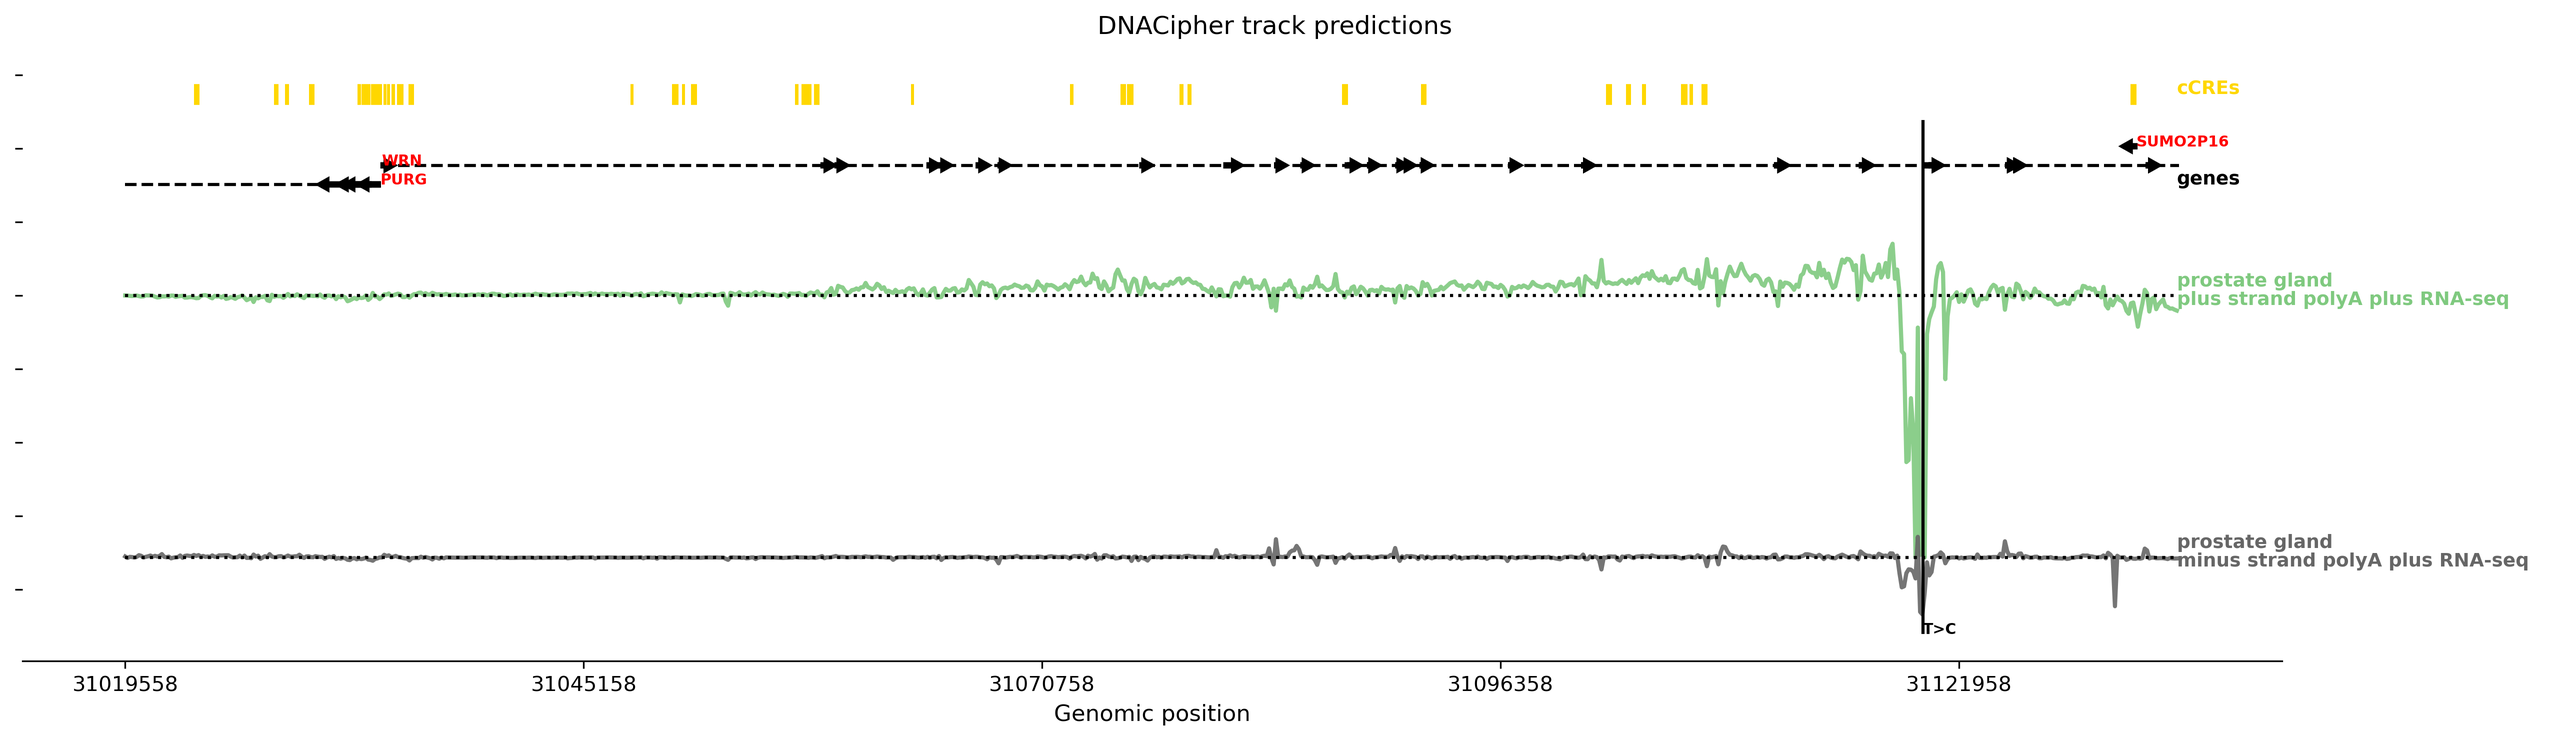
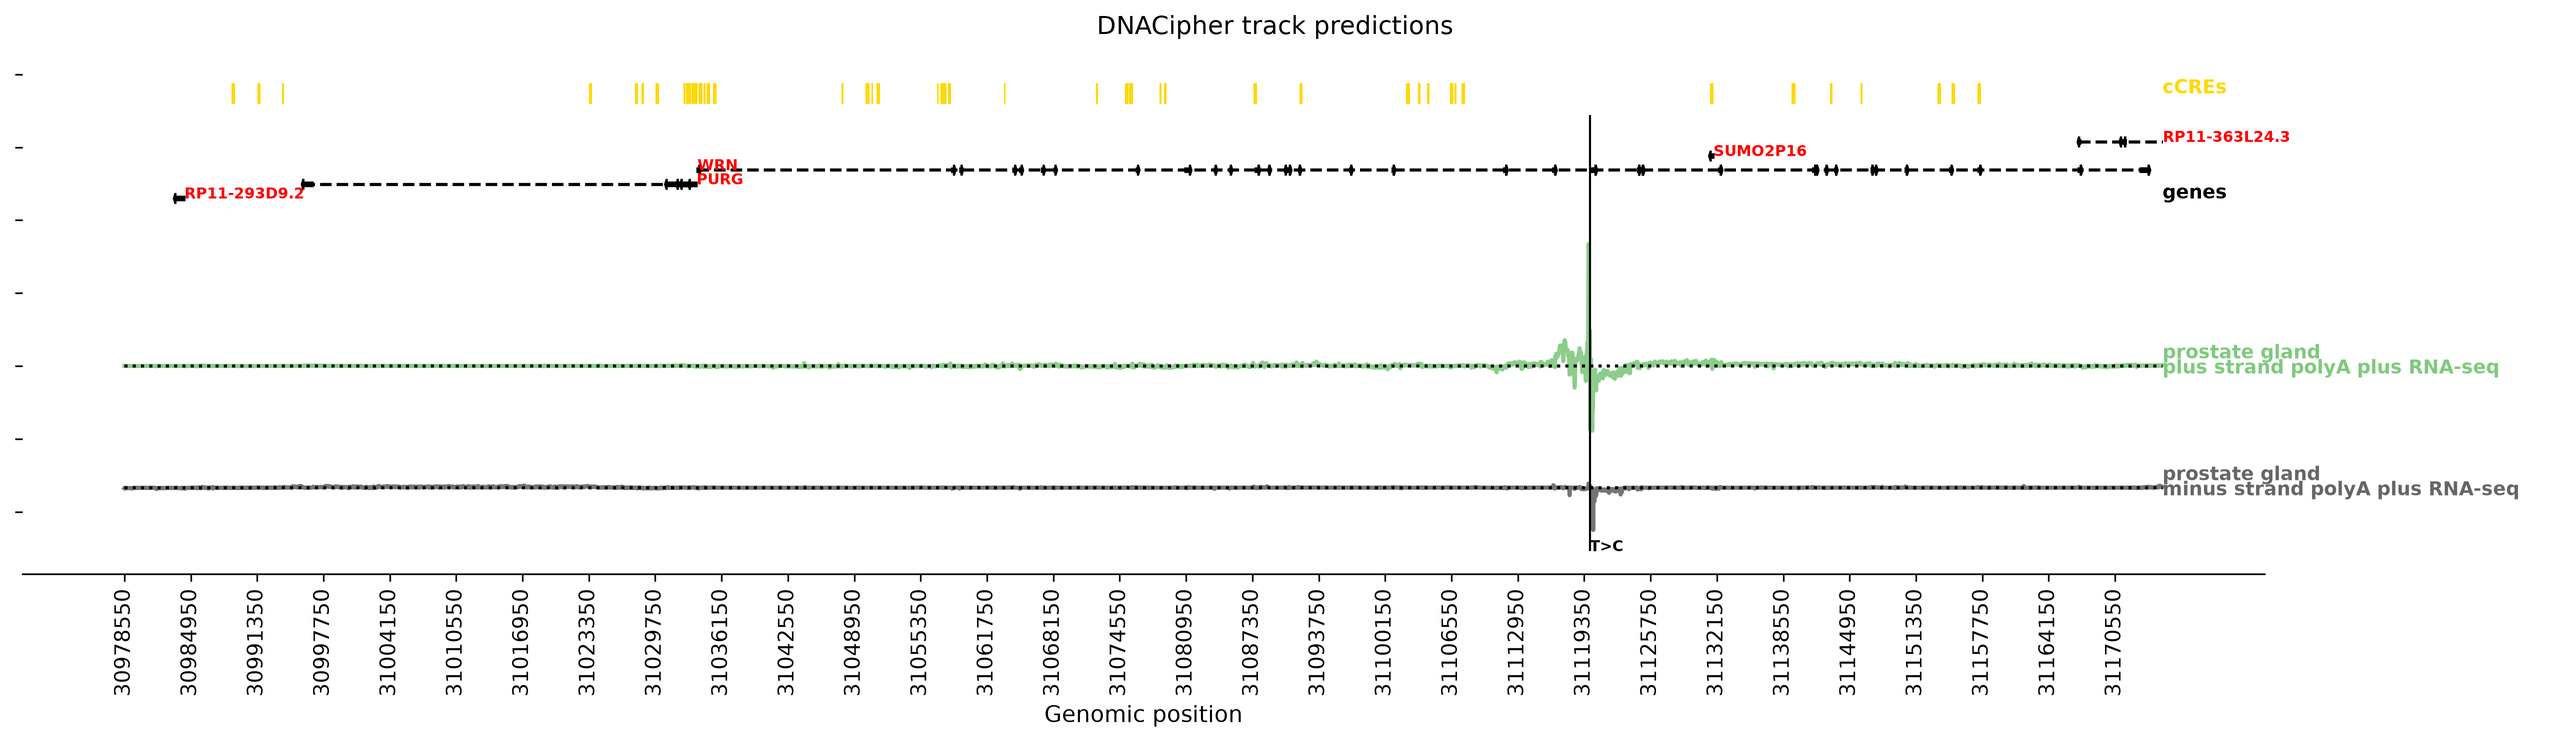
added check for indels

diff --git a/dnacipher/main.py b/dnacipher/main.py
@@ -316,7 +316,7 @@ def infer_multivariant_effects(
         sample_file: Annotated[Optional[str], typer.Option("-sf", "-sample_file", help="Sample metadata used to train the DNACipher model to be used for inference. If not provided uses default DNACipher.")] = None,
         model_config_file: Annotated[Optional[str], typer.Option("-m", "-model_config", help=(".yaml file specifying the model parameters, such as layer sizes, number of layers, etc. If not provided, defaults to an internal config specifying the original model."))] = None,
         weights_path: Annotated[Optional[str], typer.Option("-w", "-weights", help=(".pth specifying the pretrained DNACipher model weights. if None will use default pretrained DNACipher model."))] = None,
-        model_name: Annotated[Optional[str], typer.Option("-mn", "-model_name", help='Name of the model to use for precomputing the embeddings for training. If None defaults to pretrained DNACipher model.')] = None,
+        model_name: Annotated[Optional[str], typer.Option("-mn", "-model_name", help='Name of the model to use for the sequence. If None defaults to the enformer model.')] = None,
         device: Annotated[Optional[str], typer.Option("-d", "-device", help="Device to run model on.")] = None,
         index_base: Annotated[Optional[int], typer.Option("-i", "-index_base", help=("Whether the variant position is 0-based or 1-based indexing."))] = 0,
         correct_ref: Annotated[bool, typer.Option("-correct_ref/-no-correct_ref", help="Correct the reference genome sequence if disagrees with the inputted ref allele.")] = False,

diff --git a/dnacipher/infer/dna_cipher_infer.py b/dnacipher/infer/dna_cipher_infer.py
@@ -164,6 +164,9 @@ class DNACipher():
         elif abs(seq_pos - pos) >= ( seqlen * 0.95 ):
             raise Warning(f"Inputted sequence centre location is >0.90 the maximum long-range effect prediction from "
                           f"the variant, may be less accurate.")
+        #### Only supporting SNPS right now.
+        elif len(ref)!=1 or len(alt)!=1:
+            raise Exception(f"Currently do not support INDEL inference, remove variant: {chr_}:{pos}:{ref}:{alt}.")
 
         side_seq = seqlen // 2
         midpoint = seq_pos - index_base

diff --git a/README.md b/README.md
@@ -326,9 +326,6 @@ The input file to this command is a VCF-like tab-separated file, that looks like
     CHR     POS     REF     ALT
     chr8    31119876        T       C
     chr13   50909867        G       C
-    chr13   50909048        T       C
-    chr14   24036431        C       T
-    chr13   50909867        G       C
 
 👉Each line is a 'query' to the DNACipher model. Can include additional columns that specify where to centre the query
 sequence (otherwise defaults to centring ON the variant location), and also where to determine ALT-REF predictions. 
@@ -348,47 +345,44 @@ Inferring effects for multiple variants like this is achieved with the command b
 ```bash
 dnacipher infer-multivariant-effects --help
 ``` 
-     Usage: dnacipher infer-multivariant-effects [OPTIONS] VCF_PATH CELLTYPES                                                                                
-                                                 ASSAYS FASTA_FILE_PATH OUT_PREFIX                                                                           
-                                                                                                                                                             
-     Takes as input a vcf file, in format, CHR, POS, REF, ALT as columns. Outputs a dataframe with rows per variant, and predicted effect sizes across the   
-     columns for all celltype/assay combinations.                                                                                                            
-                                                                                                                                                             
-    ╭─ Arguments ───────────────────────────────────────────────────────────────────────────────────────────────────────────────────────────────────────────╮
-    │ *    vcf_path             TEXT  Rows represent particular genetic variants, columns are CHR, POS, REF, ALT [default: None] [required]                 │
-    │ *    celltypes            TEXT  Celltypes to infer effects for. File in format: ct1,ct2,ct3 [default: None] [required]                                │
-    │ *    assays               TEXT  Assays to infer effects for. File in format: assay1,assay2,assay3 [default: None] [required]                          │
-    │ *    fasta_file_path      TEXT  FASTA file path for the reference genome. Must have .fai index. [default: None] [required]                            │
-    │ *    out_prefix           TEXT  Prefix for all outputs files. [default: None] [required]                                                              │
-    ╰───────────────────────────────────────────────────────────────────────────────────────────────────────────────────────────────────────────────────────╯
-    ╭─ Options ─────────────────────────────────────────────────────────────────────────────────────────────────────────────────────────────────────────────╮
-    │         -d,-device                                              TEXT     Device to run model on. [default: None]                                      │
-    │         -i,-index_base                                          INTEGER  Whether the variant position is 0-based or 1-based indexing. [default: 0]    │
-    │         -correct_ref                      -no-correct_ref                Correct the reference genome sequence if disagrees with the inputted ref     │
-    │                                                                          allele.                                                                      │
-    │                                                                          [default: no-correct_ref]                                                    │
-    │         -sc,-seq_pos_col                                        TEXT     Column in vcf that specifies the position to centre the query sequence on,   │
-    │                                                                          must be within dnacipher.seqlen_max in order to predict effect of the        │
-    │                                                                          genetic variant. If None then will centre the query sequence on the inputted │
-    │                                                                          variant.                                                                     │
-    │                                                                          [default: None]                                                              │
-    │         -ersc,-effect_region_start_col                          TEXT     Specifies column in the inputted data frame specifying the start position    │
-    │                                                                          (in genome coords) to measure the effect                                     │
-    │                                                                          [default: None]                                                              │
-    │         -erec,-effect_region_end_col                            TEXT     Specifies column in the inputted data frame specifying the end position (in  │
-    │                                                                          genome coords) to measure the effect                                         │
-    │                                                                          [default: None]                                                              │
-    │         -b,-batch_size                                          INTEGER  How many effects to infer at a time. [default: None]                         │
-    │         -by,-batch_by                                           TEXT     Indicates how to batch the data when fed into the model, either by           │
-    │                                                                          'experiment', 'sequence', or None. If None, will automatically choose        │
-    │                                                                          whichever is the larger axis.                                                │
-    │                                                                          [default: None]                                                              │
-    │         -all_combinations                 -no-all_combinations           Generate predicetions for all combinations of inputted cell types and        │
-    │                                                                          assays.                                                                      │
-    │                                                                          [default: all_combinations]                                                  │
-    │         -verbose                          -quiet                         Enable or disable verbose output [default: verbose]                          │
-    │ --help                                                                   Show this message and exit.                                                  │
-    ╰───────────────────────────────────────────────────────────────────────────────────────────────────────────────────────────────────────────────────────╯
+     Usage: dnacipher infer-multivariant-effects [OPTIONS] {out_prefix} {vcf_path}                                                                                                                                                     
+                                                 {celltypes} {assays}                                                                                                                                                                  
+                                                 {fasta_file_path}                                                                                                                                                                     
+                                                                                                                                                                                                                                       
+     Takes as input a vcf file, in format, CHR, POS, REF, ALT as columns. Outputs a dataframe with rows per variant, and predicted effect sizes across the columns for celltype/assay combinations.                                    
+                                                                                                                                                                                                                                       
+    ╭─ Arguments ─────────────────────────────────────────────────────────────────────────────────────────────────────────────────────────────────────────────────────────────────────────────────────────────────────────────────────╮
+    │ *    out_prefix           <str>  Prefix for all outputs files. [required]                                                                                                                                                       │
+    │ *    vcf_path             <str>  Rows represent particular genetic variants, columns are CHR, POS, REF, ALT [required]                                                                                                          │
+    │ *    celltypes            <str>  Celltypes to infer effects for. File in format: ct1,,ct2,,ct3 [required]                                                                                                                       │
+    │ *    assays               <str>  Assays to infer effects for. File in format: assay1,,assay2,,assay3 [required]                                                                                                                 │
+    │ *    fasta_file_path      <str>  FASTA file path for the reference genome. Must have .fai index. [required]                                                                                                                     │
+    ╰─────────────────────────────────────────────────────────────────────────────────────────────────────────────────────────────────────────────────────────────────────────────────────────────────────────────────────────────────╯
+    ╭─ Options ───────────────────────────────────────────────────────────────────────────────────────────────────────────────────────────────────────────────────────────────────────────────────────────────────────────────────────╮
+    │         -sf,-sample_file                                        <str>  Sample metadata used to train the DNACipher model to be used for inference. If not provided uses default DNACipher.                                      │
+    │         -m,-model_config                                        <str>  .yaml file specifying the model parameters, such as layer sizes, number of layers, etc. If not provided, defaults to an internal config specifying the   │
+    │                                                                        original model.                                                                                                                                          │
+    │         -w,-weights                                             <str>  .pth specifying the pretrained DNACipher model weights. if None will use default pretrained DNACipher model.                                             │
+    │         -mn,-model_name                                         <str>  Name of the model to use for the sequence. If None defaults to the enformer model.                                │
+    │         -d,-device                                              <str>  Device to run model on.                                                                                                                                  │
+    │         -i,-index_base                                          <int>  Whether the variant position is 0-based or 1-based indexing. [default: 0]                                                                                │
+    │         -correct_ref                      -no-correct_ref              Correct the reference genome sequence if disagrees with the inputted ref allele. [default: no-correct_ref]                                               │
+    │         -sc,-seq_pos_col                                        <str>  Column in vcf that specifies the position to centre the query sequence on, must be within dnacipher.seqlen_max in order to predict effect of the genetic │
+    │                                                                        variant. If None then will centre the query sequence on the inputted variant.                                                                            │
+    │         -ersc,-effect_region_start_col                          <str>  Specifies column in the inputted data frame specifying the start position (in genome coords) to measure the effect                                       │
+    │         -erec,-effect_region_end_col                            <str>  Specifies column in the inputted data frame specifying the end position (in genome coords) to measure the effect                                         │
+    │         -b,-batch_size                                          <int>  How many effects to infer at a time.                                                                                                                     │
+    │         -by,-batch_by                                           <str>  Indicates how to batch the data when fed into the model, either by 'experiment', 'sequence', or None. If None, will automatically choose whichever is    │
+    │                                                                        the larger axis.                                                                                                                                         │
+    │         -all_combinations                 -no-all_combinations         Generate predictions for all combinations of inputted cell types and assays. [default: all_combinations]                                                 │
+    │         -sm,-scoring_method                                     <str>  Refers to how to compare the ref and alt prediction to score variant effects. Supported methods are 'signed_sum_abs' which will take the                 │
+    │                                                                        SUM(|ALT-REF|)*{-1 if SUM(ALT-REF) < 0}. 'sum_logfc' which will score as log2( (SUM(ALT) / SUM(REF)) + 1).                                               │
+    │                                                                        [default: signed_sum_abs]                                                                                                                                │
+    │         -rrf,-res_reduce_factor                                 <int>  Decrease the resolution of the imputed signals by this factor. E.g. rrf=4, 32bp/bin goes to 128bp/bin. If None maintains same resolution as embedding    │
+    │                                                                        model.                                                                                                                                                   │
+    │         -verbose                          -quiet                       Enable or disable verbose output [default: verbose]                                                                                                      │
+    │ --help                                                                 Show this message and exit.                                                                                                                              │
+    ╰─────────────────────────────────────────────────────────────────────────────────────────────────────────────────────────────────────────────────────────────────────────────────────────────────────────────────────────────────╯
 
 Working example using provided tutorial data, this will take ~0.4 mins and ~4.2Gb of GPU RAM (A40 GPU), or ~41 min for CPU.
 
@@ -396,7 +390,7 @@ Working example using provided tutorial data, this will take ~0.4 mins and ~4.2G
 out_prefix="eQTLs_"
 vcf_path="tutorials/data/gtex_variants_SMALL.vcf"
 
-dnacipher infer-multivariant-effects ${vcf_path} celltypes.txt assays.txt ${fasta_path} ${out_prefix} -i ${index_base}
+dnacipher infer-multivariant-effects ${out_prefix} ${vcf_path} celltypes.txt assays.txt ${fasta_path} -mn borzoi -i ${index_base}
 ``` 
 
 The output file looks like this:
